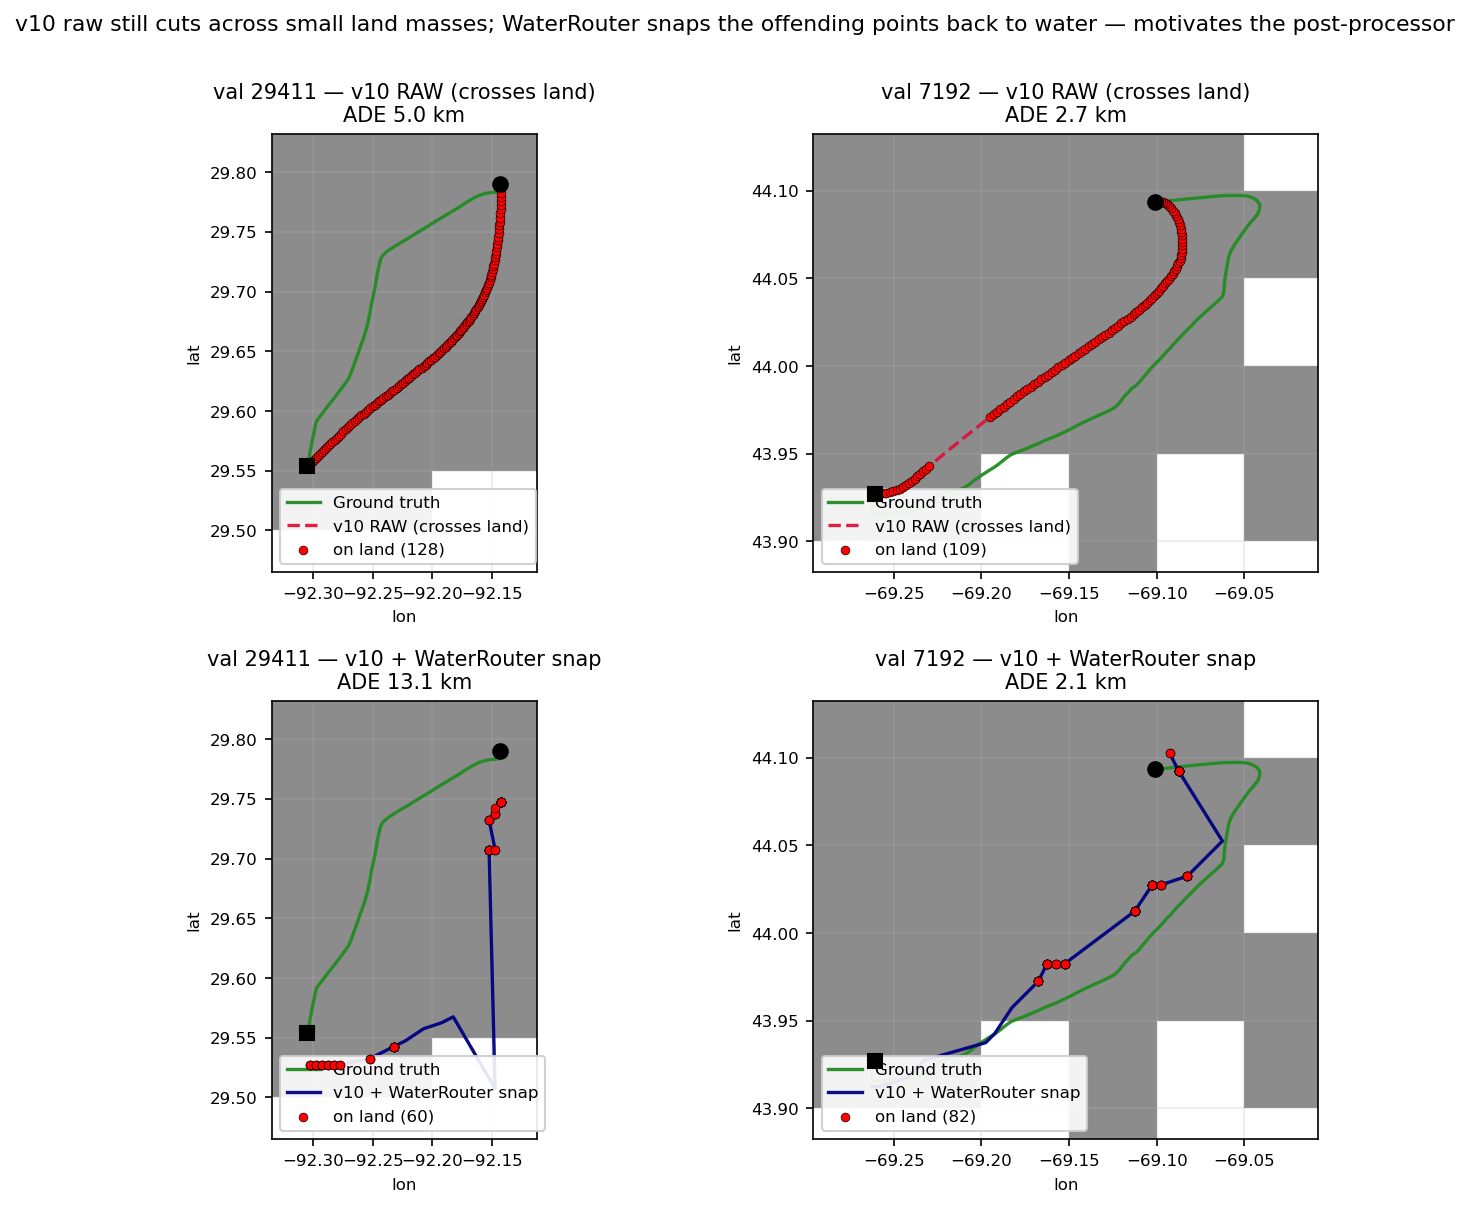
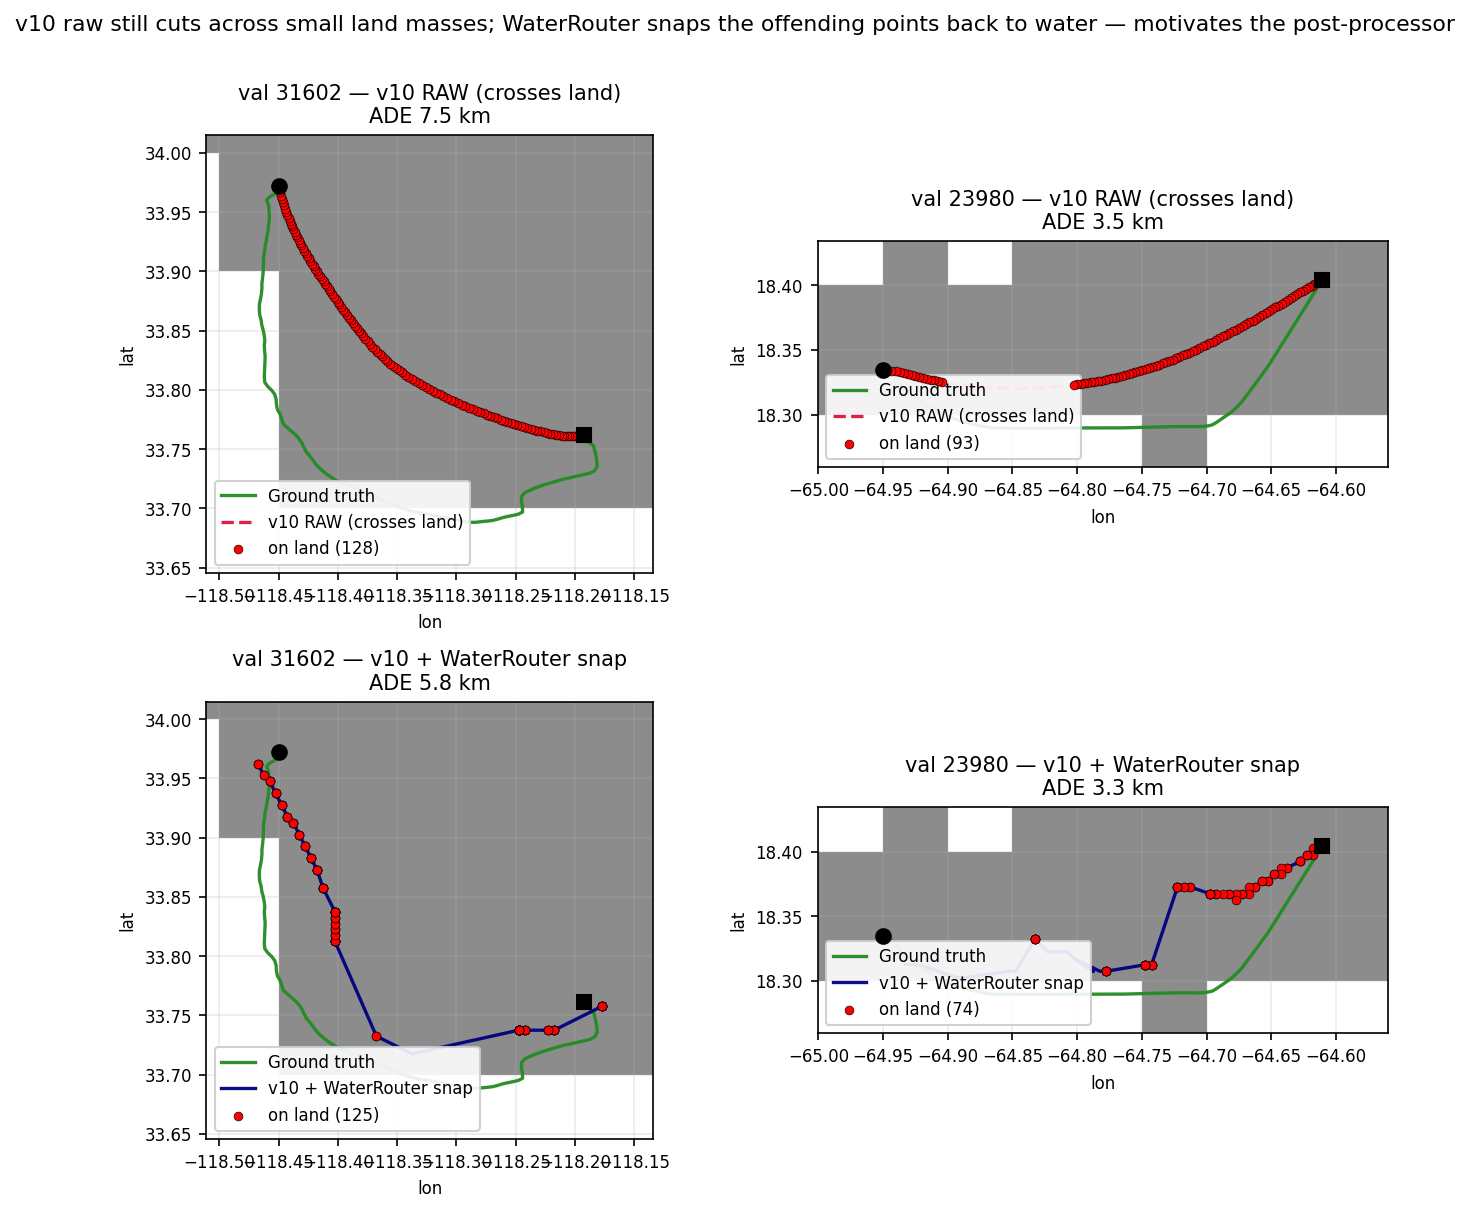
figs: widen v10 motivation-figure sample (60 tracks, seed 7); regen outputs

diff --git a/scripts/eval/extract_motivation_figs.py b/scripts/eval/extract_motivation_figs.py
@@ -513,8 +513,8 @@ def fig_v10_router(dirty_npz, v10_ckpt, knn_cache, water_graph, land_mask,
     # Sample medium-length tracks
     gt_km = np.array([path_length_m(val_traj[i]) / 1000 for i in range(len(val_traj))])
     pool = np.where((gt_km > 30) & (gt_km < 400))[0]
-    rng = np.random.RandomState(17)
-    sample_idx = rng.choice(pool, min(40, len(pool)), replace=False)
+    rng = np.random.RandomState(7)
+    sample_idx = rng.choice(pool, min(60, len(pool)), replace=False)
 
     candidates = []
     print("  generating sample predictions (no land-projection)...")
